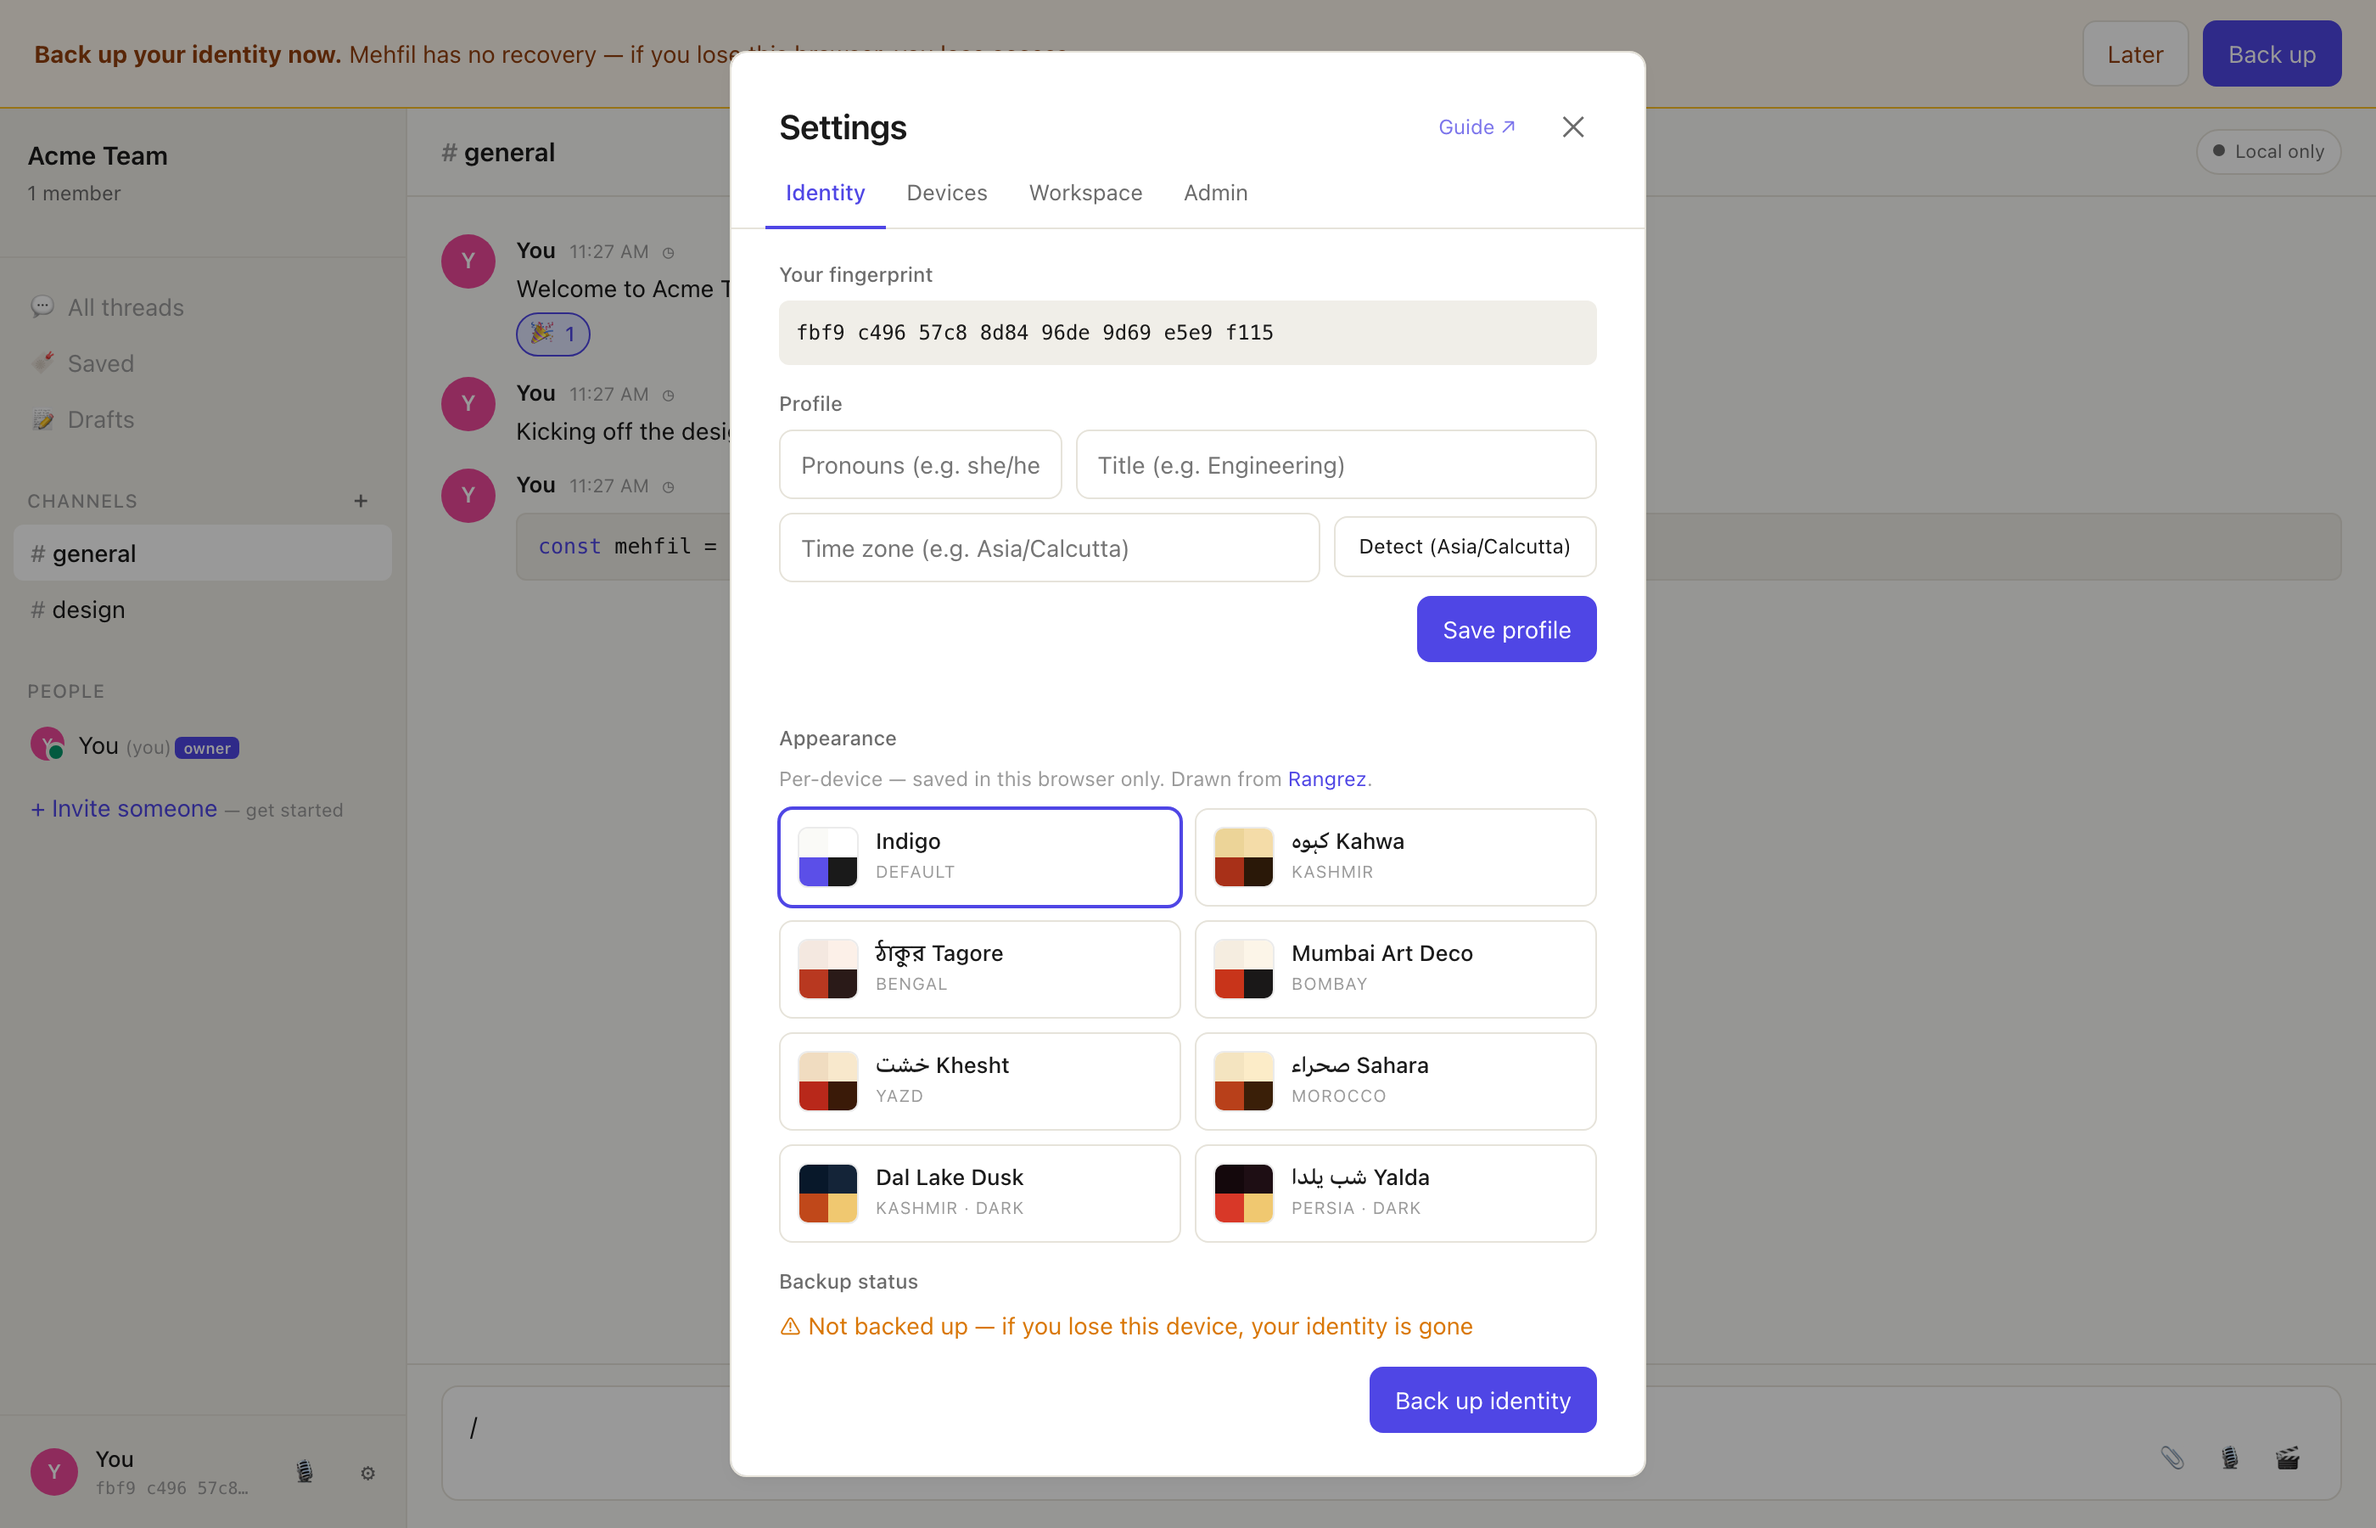
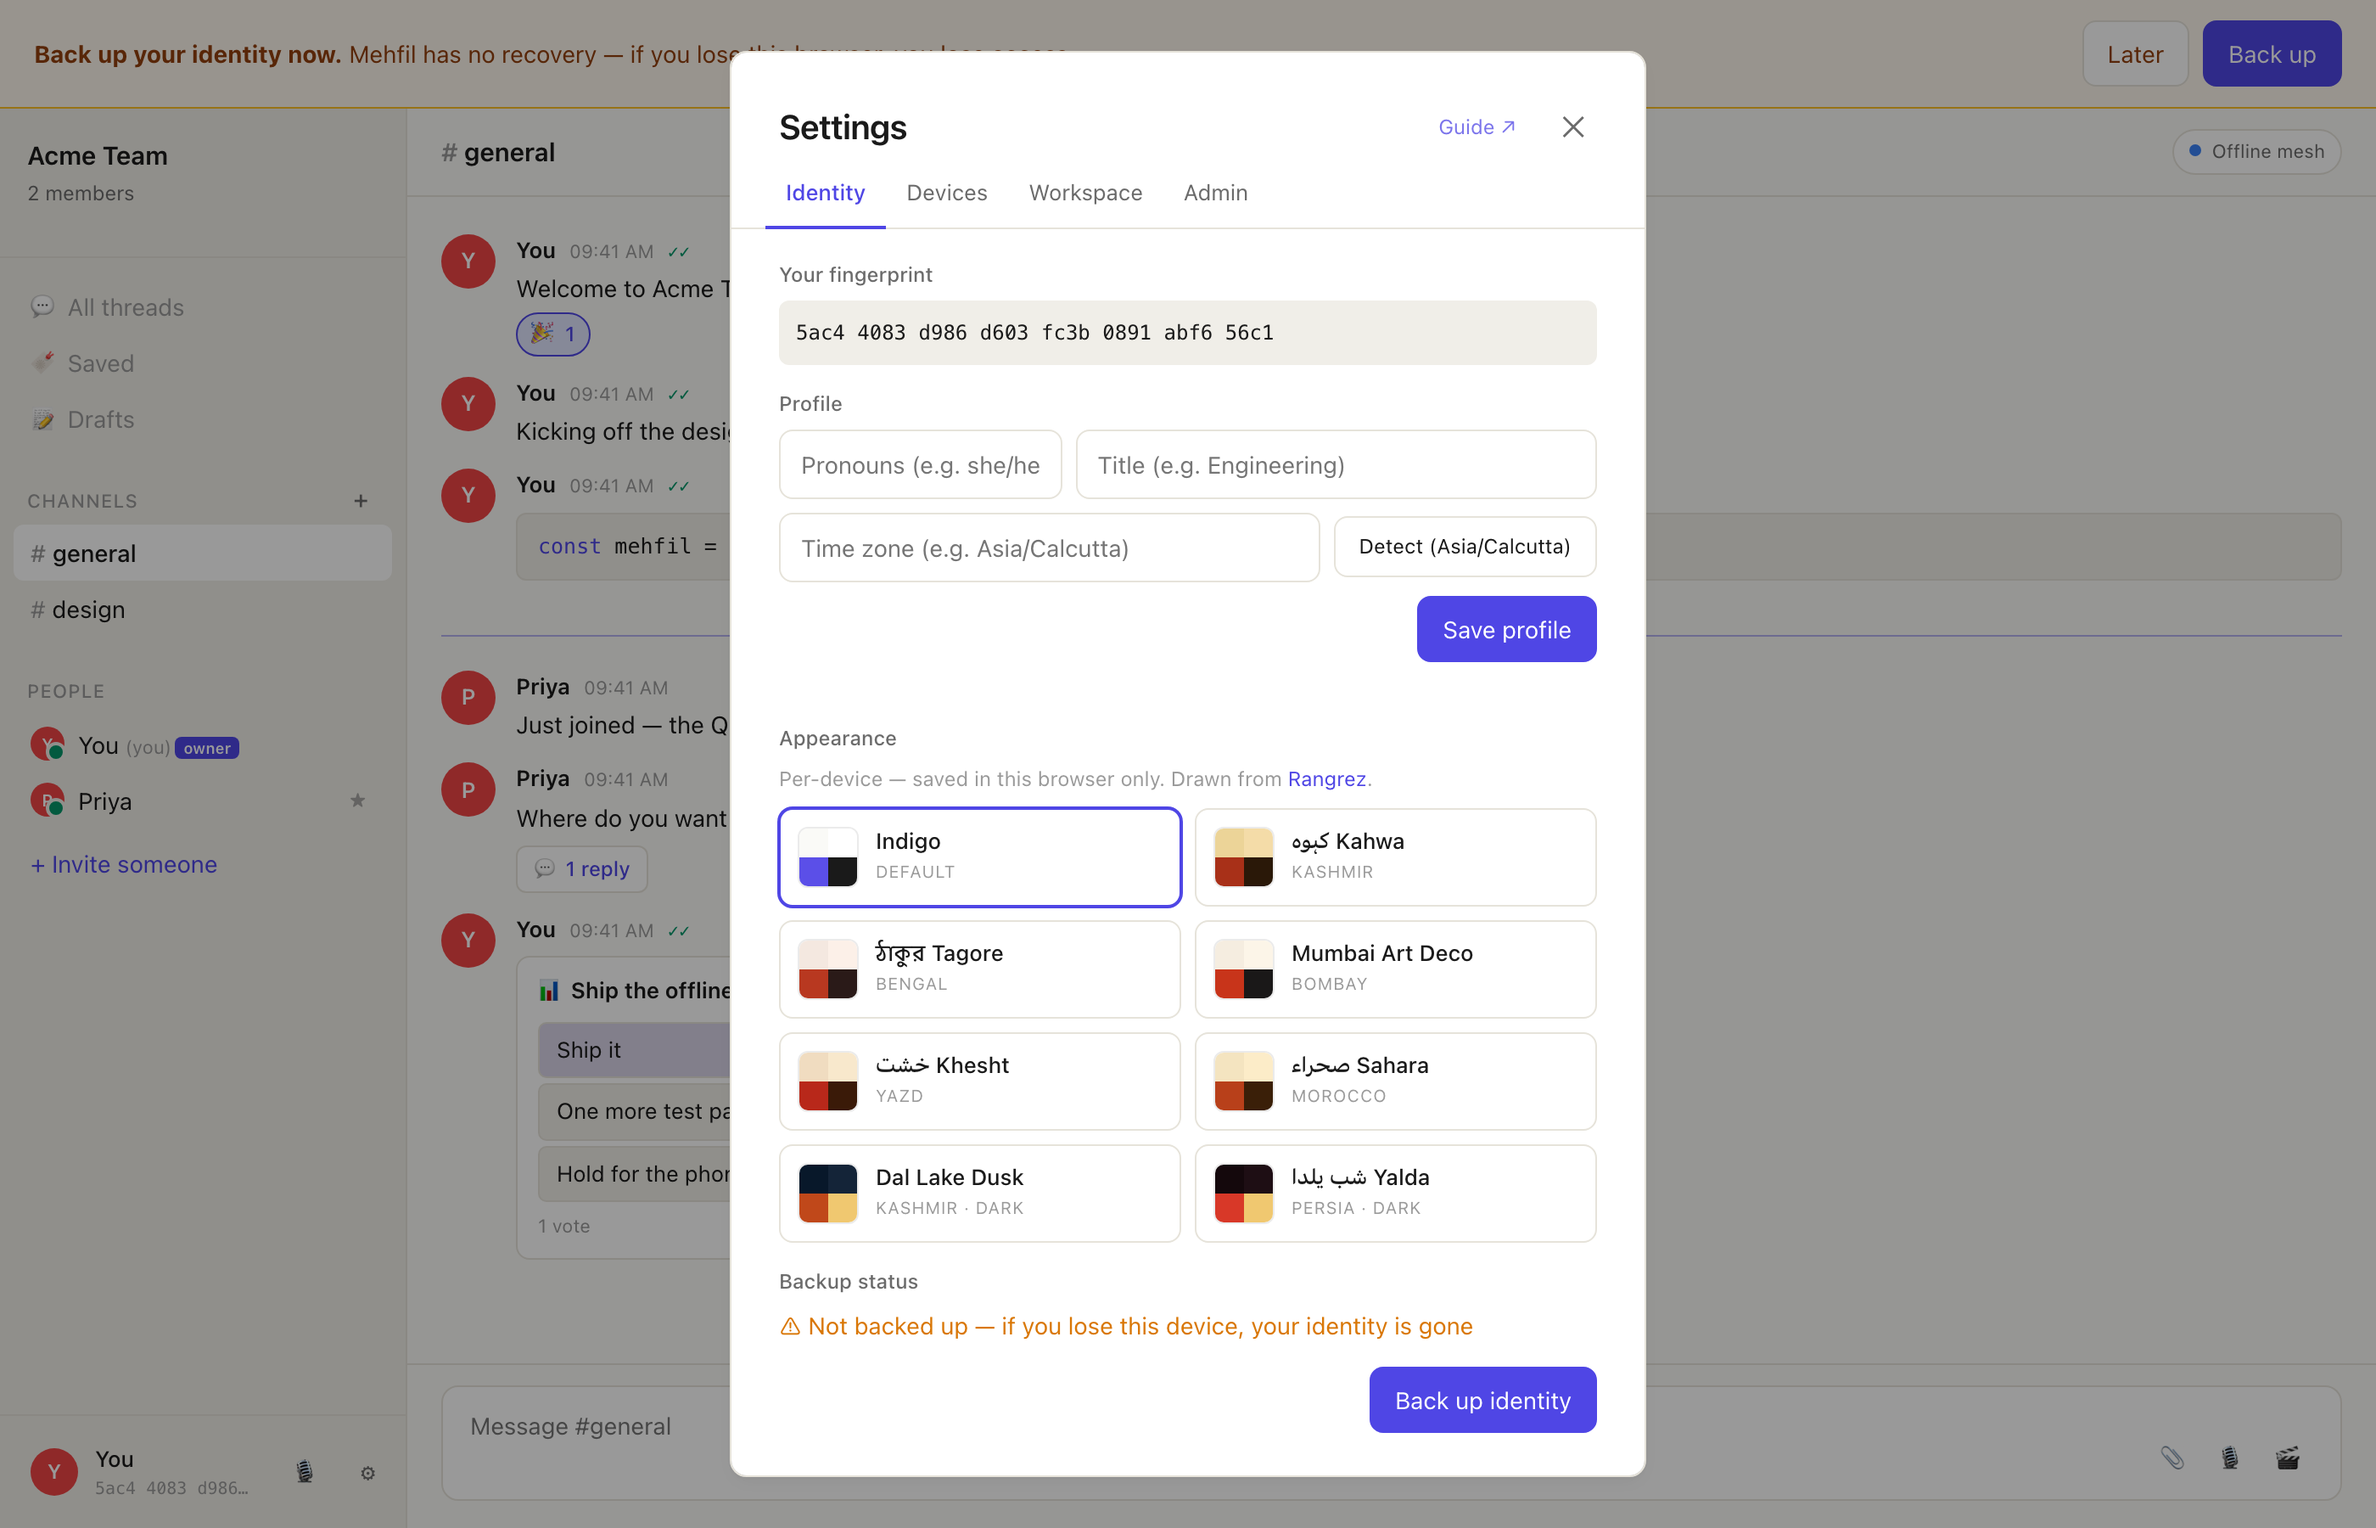
G1: guide captures what the app does, not just what it looks like
All 17 existing routes were single-actor and static — one person talking
to themselves. That shows the chrome and hides the product. Added five
surfaces, and a real second peer to make them honest:

- 18 two-person conversation. NOT faked by writing member rows into the
  projection: a genuine second browser context completes the real offline
  invite/join handshake and sends over the peer connection, so the
  screenshot shows something the app can actually produce. Priya's
  messages land under the unread divider, which is itself worth seeing.
- 19 thread panel, with a real reply and the parent's reply count
- 20 poll, tallied from the SECOND device's vote travelling over the mesh
- 21 canvas channel
- 22 huddle, actually joined — Chromium fake-media flags give the headless
  browser a synthetic mic and auto-accept the permission, so the bar
  renders live rather than showing a permission error

New "Working together" section groups the surfaces that need more than one
person, which is where Mehfil is actually differentiated.

22/22 rendered, 0 console errors. Sizes checked against blanks — the new
captures are 132-243KB, well clear of the ~50KB floor empty screens sit at.

diff --git a/guide/index.html b/guide/index.html
@@ -42,7 +42,7 @@
 </header>
 <div class="bar"><div class="inner">
   <input id="q" type="search" placeholder="Search features…  ( / to focus, Esc to clear )" autocomplete="off">
-  <nav class="toc"><a href="#s0">Getting started</a><a href="#s1">Connect your team — offline</a><a href="#s2">Messaging</a><a href="#s3">Find &amp; navigate</a><a href="#s4">Settings &amp; admin</a></nav>
+  <nav class="toc"><a href="#s0">Getting started</a><a href="#s1">Connect your team — offline</a><a href="#s2">Messaging</a><a href="#s3">Working together</a><a href="#s4">Find &amp; navigate</a><a href="#s5">Settings &amp; admin</a></nav>
 </div></div>
 <main>
 <section class="grp" id="s0"><h2>Getting started</h2><p class="intro">Open Mehfil and you’re one click from a working, encrypted workspace — no account, no server, no install.</p><div class="grid"><figure class="card" data-search="getting started the landing screen every entry point in one place — start a workspace, join one, add a device, or restore a backup. no signup, no download. 01-landing">
@@ -73,9 +73,17 @@
     <a href="screenshots/06-workspace-populated.png" target="_blank"><img loading="lazy" src="screenshots/06-workspace-populated.png" alt="Channels &amp; messages"></a>
     <figcaption><h3>Channels &amp; messages</h3><p>The main surface — channels in the sidebar, threaded messages, code blocks, and a rich composer.</p></figcaption>
   </figure>
+<figure class="card" data-search="messaging a real conversation two people, two devices, one mesh. priya joined by scanning a qr with no internet involved; her messages arrive over the peer connection and land under the unread divider. 18-two-person-conversation">
+    <a href="screenshots/18-two-person-conversation.png" target="_blank"><img loading="lazy" src="screenshots/18-two-person-conversation.png" alt="A real conversation"></a>
+    <figcaption><h3>A real conversation</h3><p>Two people, two devices, one mesh. Priya joined by scanning a QR with no internet involved; her messages arrive over the peer connection and land under the unread divider.</p></figcaption>
+  </figure>
 <figure class="card" data-search="messaging reactions &amp; message actions react with any emoji; hover a message for reply, edit, pin, forward, and more. 07-message-reactions">
     <a href="screenshots/07-message-reactions.png" target="_blank"><img loading="lazy" src="screenshots/07-message-reactions.png" alt="Reactions &amp; message actions"></a>
     <figcaption><h3>Reactions &amp; message actions</h3><p>React with any emoji; hover a message for reply, edit, pin, forward, and more.</p></figcaption>
+  </figure>
+<figure class="card" data-search="messaging threads replies fold into a side panel instead of burying the channel. the parent message keeps a reply count so nothing gets lost. 19-thread-panel">
+    <a href="screenshots/19-thread-panel.png" target="_blank"><img loading="lazy" src="screenshots/19-thread-panel.png" alt="Threads"></a>
+    <figcaption><h3>Threads</h3><p>Replies fold into a side panel instead of burying the channel. The parent message keeps a reply count so nothing gets lost.</p></figcaption>
   </figure>
 <figure class="card" data-search="messaging slash commands type / for an autocomplete of workflow shortcuts — /dm, /goto, /poll, /remind, /call, /search, and more. 08-slash-autocomplete">
     <a href="screenshots/08-slash-autocomplete.png" target="_blank"><img loading="lazy" src="screenshots/08-slash-autocomplete.png" alt="Slash commands"></a>
@@ -85,7 +93,19 @@
     <a href="screenshots/09-create-channel.png" target="_blank"><img loading="lazy" src="screenshots/09-create-channel.png" alt="Create a channel"></a>
     <figcaption><h3>Create a channel</h3><p>Public, private, announcement, or a collaborative Canvas doc — with a topic and optional member picker.</p></figcaption>
   </figure></div></section>
-<section class="grp" id="s3"><h2>Find &amp; navigate</h2><p class="intro">Keyboard-first movement across everything you’ve got.</p><div class="grid"><figure class="card" data-search="find &amp; navigate search full-text search across messages, with from: and in:# filters. local, instant, private. 11-search">
+<section class="grp" id="s3"><h2>Working together</h2><p class="intro">The surfaces that need more than one person: decide something, sketch something, or just talk.</p><div class="grid"><figure class="card" data-search="working together polls ask the room. votes travel as ordinary encrypted envelopes, so a poll works on an offline mesh exactly like a message does — this tally came from the second device. 20-poll">
+    <a href="screenshots/20-poll.png" target="_blank"><img loading="lazy" src="screenshots/20-poll.png" alt="Polls"></a>
+    <figcaption><h3>Polls</h3><p>Ask the room. Votes travel as ordinary encrypted envelopes, so a poll works on an offline mesh exactly like a message does — this tally came from the second device.</p></figcaption>
+  </figure>
+<figure class="card" data-search="working together canvas channels a channel that is a shared whiteboard rather than a message list, backed by the same crdt that keeps everything else in sync. 21-canvas">
+    <a href="screenshots/21-canvas.png" target="_blank"><img loading="lazy" src="screenshots/21-canvas.png" alt="Canvas channels"></a>
+    <figcaption><h3>Canvas channels</h3><p>A channel that is a shared whiteboard rather than a message list, backed by the same CRDT that keeps everything else in sync.</p></figcaption>
+  </figure>
+<figure class="card" data-search="working together huddles drop into live audio in a channel. peer-to-peer like everything else, with mute, screen share and leave in the bar — no dial-in, no bridge, no account. 22-huddle-active">
+    <a href="screenshots/22-huddle-active.png" target="_blank"><img loading="lazy" src="screenshots/22-huddle-active.png" alt="Huddles"></a>
+    <figcaption><h3>Huddles</h3><p>Drop into live audio in a channel. Peer-to-peer like everything else, with mute, screen share and leave in the bar — no dial-in, no bridge, no account.</p></figcaption>
+  </figure></div></section>
+<section class="grp" id="s4"><h2>Find &amp; navigate</h2><p class="intro">Keyboard-first movement across everything you’ve got.</p><div class="grid"><figure class="card" data-search="find &amp; navigate search full-text search across messages, with from: and in:# filters. local, instant, private. 11-search">
     <a href="screenshots/11-search.png" target="_blank"><img loading="lazy" src="screenshots/11-search.png" alt="Search"></a>
     <figcaption><h3>Search</h3><p>Full-text search across messages, with from: and in:# filters. Local, instant, private.</p></figcaption>
   </figure>
@@ -97,7 +117,7 @@
     <a href="screenshots/13-shortcuts.png" target="_blank"><img loading="lazy" src="screenshots/13-shortcuts.png" alt="Keyboard shortcuts"></a>
     <figcaption><h3>Keyboard shortcuts</h3><p>The full keymap, grouped by Navigate / Channel / Workspace / Composer — a single source of truth generated from the app.</p></figcaption>
   </figure></div></section>
-<section class="grp" id="s4"><h2>Settings &amp; admin</h2><p class="intro">Identity, devices, transports, and running a workspace.</p><div class="grid"><figure class="card" data-search="settings &amp; admin settings · identity your profile, custom status, and the backup that’s the only way to recover your identity. 14-settings-identity">
+<section class="grp" id="s5"><h2>Settings &amp; admin</h2><p class="intro">Identity, devices, transports, and running a workspace.</p><div class="grid"><figure class="card" data-search="settings &amp; admin settings · identity your profile, custom status, and the backup that’s the only way to recover your identity. 14-settings-identity">
     <a href="screenshots/14-settings-identity.png" target="_blank"><img loading="lazy" src="screenshots/14-settings-identity.png" alt="Settings · Identity"></a>
     <figcaption><h3>Settings · Identity</h3><p>Your profile, custom status, and the backup that’s the only way to recover your identity.</p></figcaption>
   </figure>
